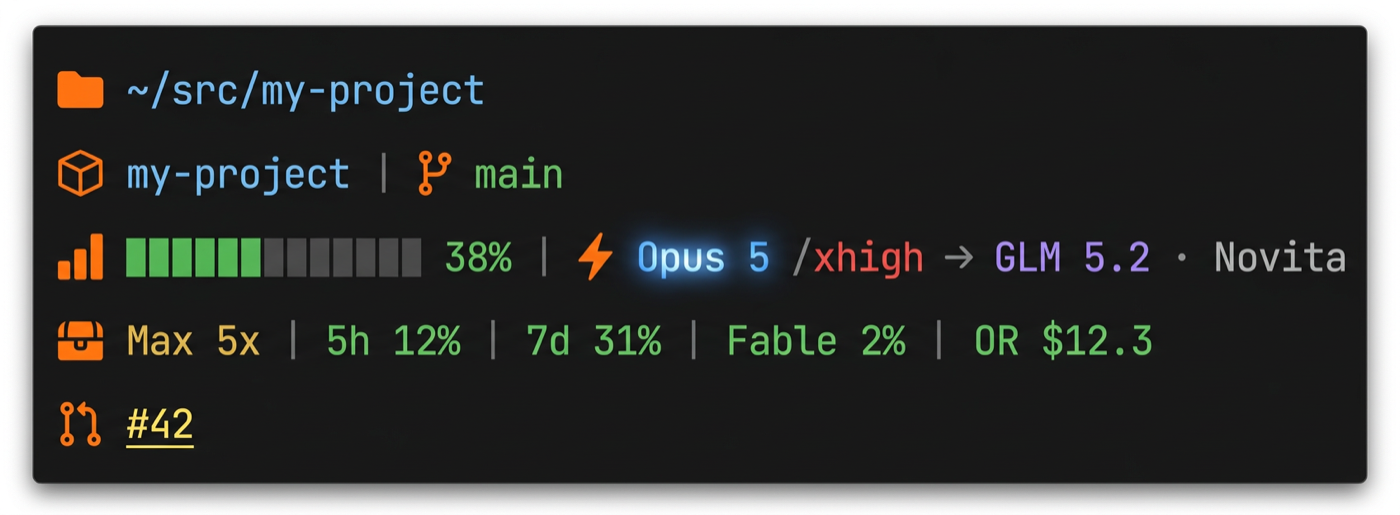
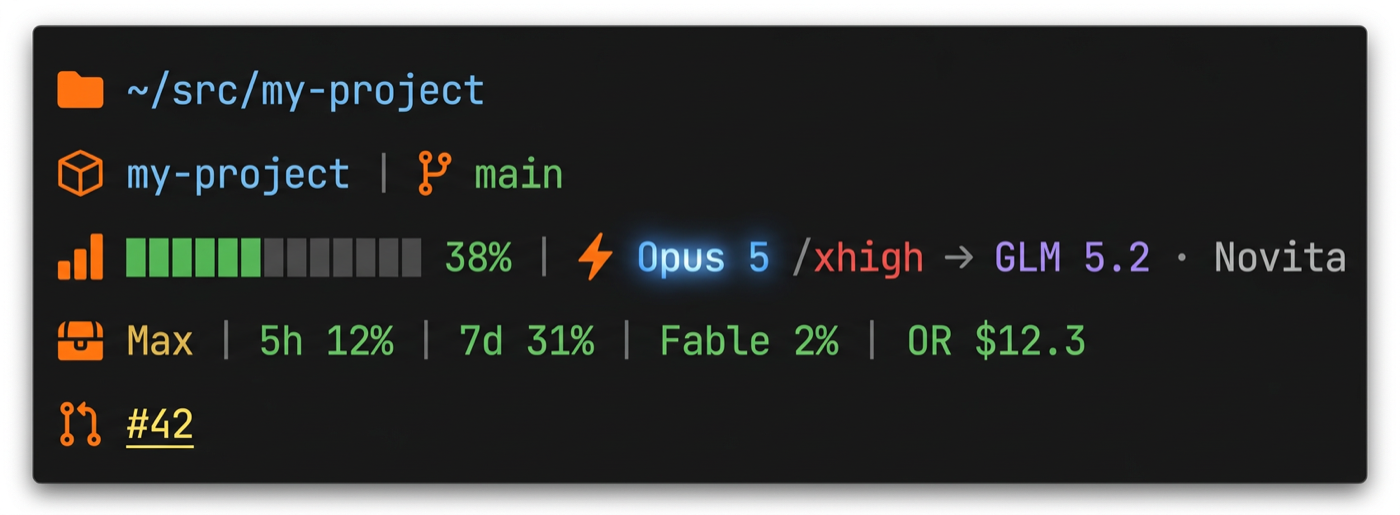
docs: 改称に合わせて README・DEVELOPMENT.md・画像・コメントを更新する
- README: 表示例と説明を Max / Ultra にし、検証済みの Ultra には 5 時間枠が
  無いので 5h が出ないことを書く。画像の 4 行目も Max 5x を Max にした
  (画像に付いている AI 生成を示すメタデータは元のまま残した)
- DEVELOPMENT.md: 改称と profile の実測、planName の値の意味、5h が出ない理由、
  ネットワークへ出ずに planName を確かめる手順を足す
- statusline.cjs / usage-fetch.cjs: コメントの旧名を直す
- 日付付きの過去の記録は書き換えず、旧名に「当時の名前」と注記した

コードの動作は変えていない。

Changed region(s): [[0.1536, 0.6214, 0.8293, 0.7146]]

diff --git a/README.md b/README.md
@@ -17,7 +17,7 @@ Node の単一スクリプトで、依存パッケージはありません。描
 | 1 | カレントディレクトリ（ホームは `~` に短縮） | 常に出る |
 | 2 | リポジトリ名 │ ブランチ | Git 管理外なら**行ごと消える**。主ツリーが既定ブランチ(main)以外、または worktree が既定ブランチを保持していると**赤＋警告記号**で理由を添える |
 | 3 | コンテキスト使用量バー │ モデル/effort **[→ 外注先モデル · 配信事業者]** | 矢印以降は直近に外注が無ければ出ない |
-| 4 | プラン種別 │ 5h 枠 │ 7d 枠 │ モデル別週間枠 │ **各サービスの残額**（OpenRouter / RunPod / Anlas） | 各要素は取得できたものだけ出る |
+| 4 | プラン種別 │ 5h 枠 │ 7d 枠 │ モデル別週間枠 │ **各サービスの残額**（OpenRouter / RunPod / Anlas） | 各要素は取得できたものだけ出る。5h 枠は 5 時間枠のあるプランだけ（検証済みの Ultra には無い） |
 | 5 | PR 番号 | PR に紐づいていなければ出ない |
 
 行数は固定ではありません。Git 管理外のディレクトリでは 2 行目が消えて全体が 1 行短くなります。
@@ -26,11 +26,17 @@ Node の単一スクリプトで、依存パッケージはありません。描
 前回の値がそのまま出続けてしまうので、**古くなった時点で値を薄く落とし、経過時間を赤で添えます**。
 
 ```
- Max 20x │ 5h 40% │ 7d 30% │ Fable 22% │ OR $12.3              # 正常
- Max 5x  │ 5h 40% │ 7d 30% │ Fable 12% │  30時間前 (token 期限切れ・claude -p で復帰) │ OR $12.3   # 取得が止まっている
+ Max │ 5h 40% │ 7d 30% │ Fable 22% │ OR $12.3                  # 正常
+ Ultra │ 7d 30% │ Fable 22% │ OR $12.3                         # 正常（検証済みの Ultra は 5 時間枠が無いので 5h は出ない）
+ Max │ 5h 40% │ 7d 30% │ Fable 12% │  30時間前 (token 期限切れ・claude -p で復帰) │ OR $12.3   # 取得が止まっている
 ```
 
-プラン種別（Max 5x ⇄ 20x）は既定 1 時間ごとに取り直すので、**プランを切り替えれば自動で追従します**。
+プラン種別（Max ⇄ Ultra など）は既定 1 時間ごとに取り直すので、**プランを切り替えれば自動で追従します**。
+名前は Anthropic が返す表示名をそのまま使うため、**プランが改称されてもコードの変更なしで追従します**
+（2026-10-30 に Max 5x は Max、Max 20x は Ultra へ改称されました）。
+
+5h は Claude Code が 5 時間枠を渡しているときだけ出ます。検証済みの Ultra には 5 時間枠が無いので、
+4 行目はプラン種別の次が 7d になります。
 
 **色の意味**
 
@@ -167,7 +173,7 @@ cp integrations/orca/statusline-orca.sh ~/.claude/statusline-orca.sh
 | `STATUSLINE_ENV_FILE` | 未設定 | `OPENROUTER_API_KEY` を読む dotenv 形式ファイルのパス |
 | `OPENROUTER_API_KEY` | 未設定 | **残額表示に必須**。直接指定するか `STATUSLINE_ENV_FILE` 経由 |
 | `STATUSLINE_USAGE_TTL_SEC` | `300` | 背景フェッチャを再実行する間隔（秒） |
-| `STATUSLINE_PROFILE_TTL_SEC` | `3600` | プラン種別（Max 5x / 20x）を取り直す間隔（秒） |
+| `STATUSLINE_PROFILE_TTL_SEC` | `3600` | プラン種別（Max / Ultra など）を取り直す間隔（秒） |
 | `STATUSLINE_STALE_SEC` | `1800` | この秒数だけ背景取得が成功していなければ「古い」として薄く落とす |
 | `STATUSLINE_CLAUDE_BIN` | 自動検出 | トークン期限切れ時に起動する `claude` のパス。空文字で起動そのものを無効化 |
 | `STATUSLINE_REFRESH_INTERVAL_SEC` | `1800` | `claude -p` を再起動するまでの最短間隔（秒） |
